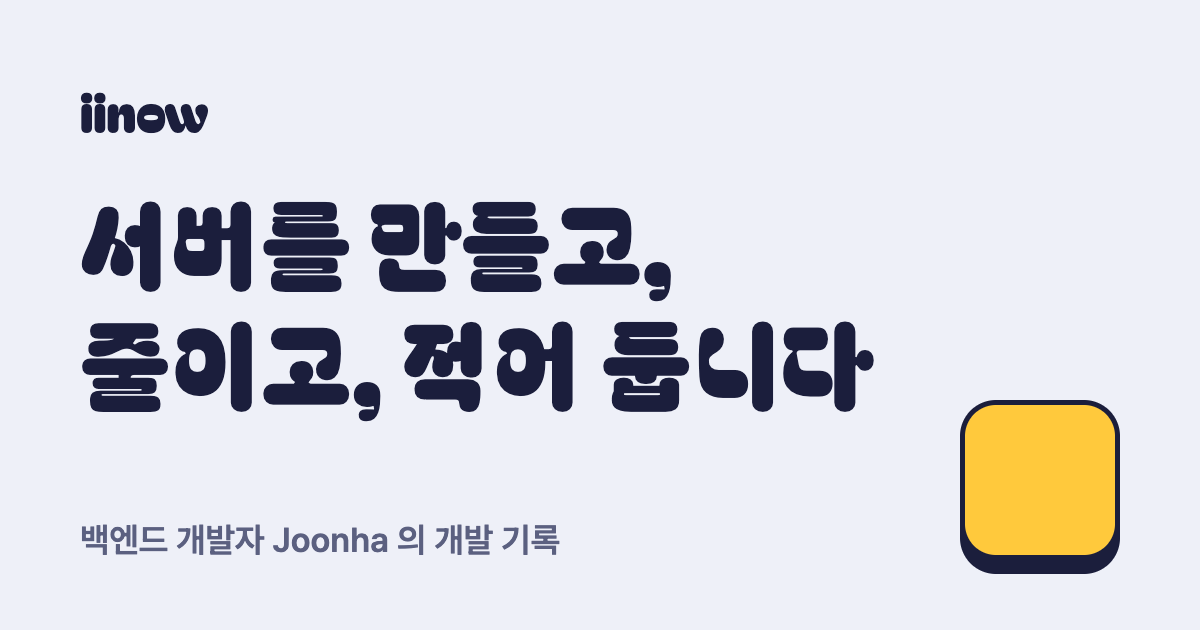
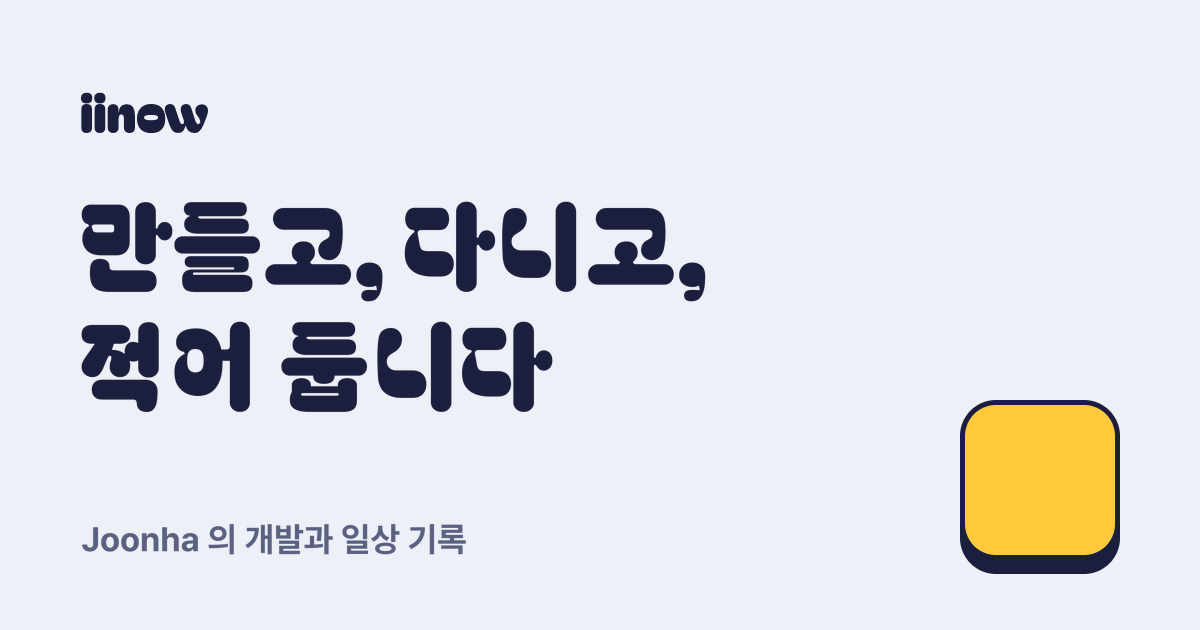
메인·헤더·썸네일을 개발과 일상 톤으로 바꿈

Changed region(s): [[0.0617, 0.5127, 0.74, 0.6635], [0.0617, 0.3016, 0.5858, 0.4825], [0.0617, 0.8143, 0.4625, 0.9048]]

diff --git a/index.html b/index.html
@@ -3,8 +3,8 @@ layout: default
 ---
 <section class="hero">
   <div class="hero-text">
-    <h1>서버를 만들고, 줄이고, 적어 둡니다</h1>
-    <p class="lead">백엔드 개발자 Joonha 입니다. 서버를 만들고, 만든 걸 더 단순하게 고치는 일을 좋아합니다. 요즘은 Go 와 LLM 에이전트를 붙들고 있습니다.</p>
+    <h1>만들고, 다니고, 적어 둡니다</h1>
+    <p class="lead">백엔드 개발자 Joonha 입니다. 개발하며 남긴 기록부터 여행과 소소한 일상까지, 기억하고 싶은 것들을 적어 둡니다.</p>
     <p class="hero-links">
       <a class="btn" href="#posts">글 읽기</a>
       <a class="plain" href="https://github.com/iinow">GitHub 보기</a>

diff --git a/_layouts/default.html b/_layouts/default.html
@@ -16,7 +16,7 @@
 {%- elsif page.title %}
 <title>{{ page.title | escape }} | iinow</title>
 {%- else %}
-<title>iinow | {{ site.tagline }}, Go 와 LLM 에이전트 백엔드 블로그</title>
+<title>iinow | {{ site.tagline }}</title>
 {%- endif %}
 {%- assign desc = page.summary | default: site.description | strip_html | strip_newlines | truncate: 160 %}
 {%- assign img = page.image | default: '/img/og.png' | absolute_url %}
